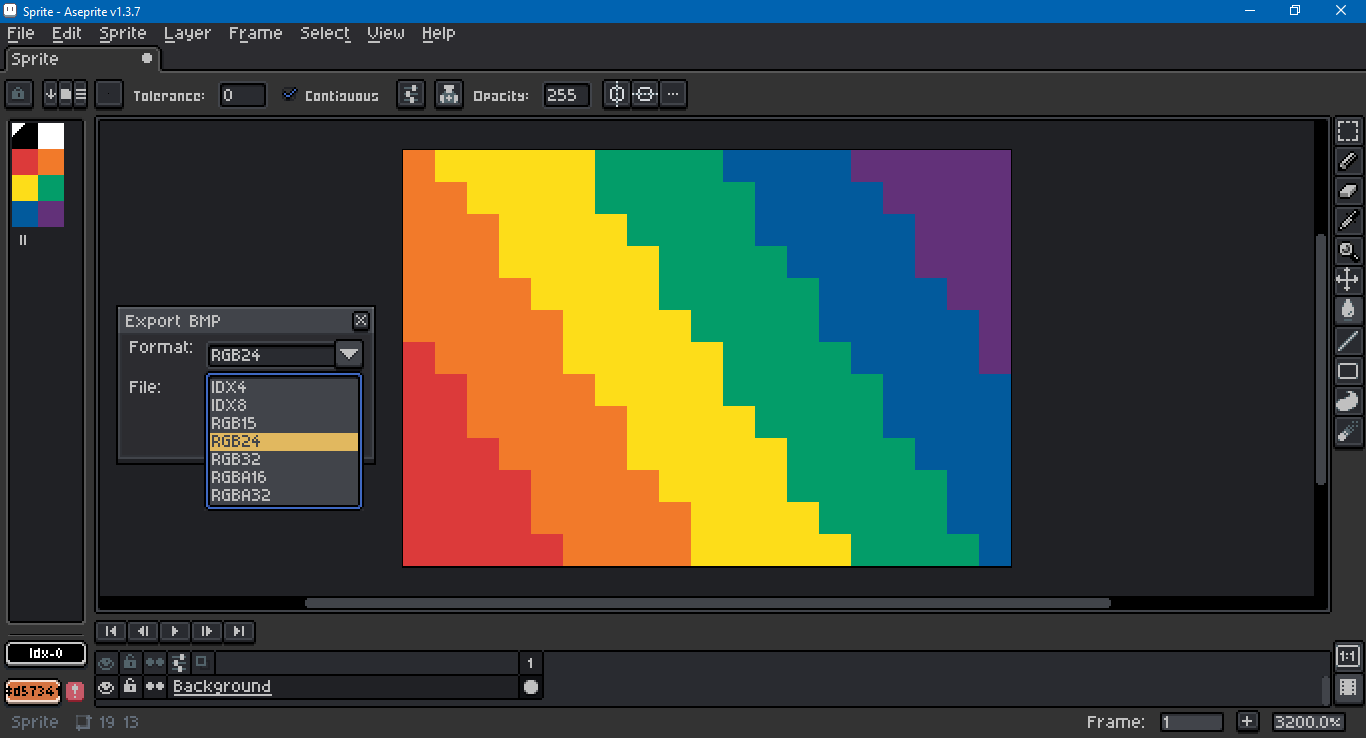
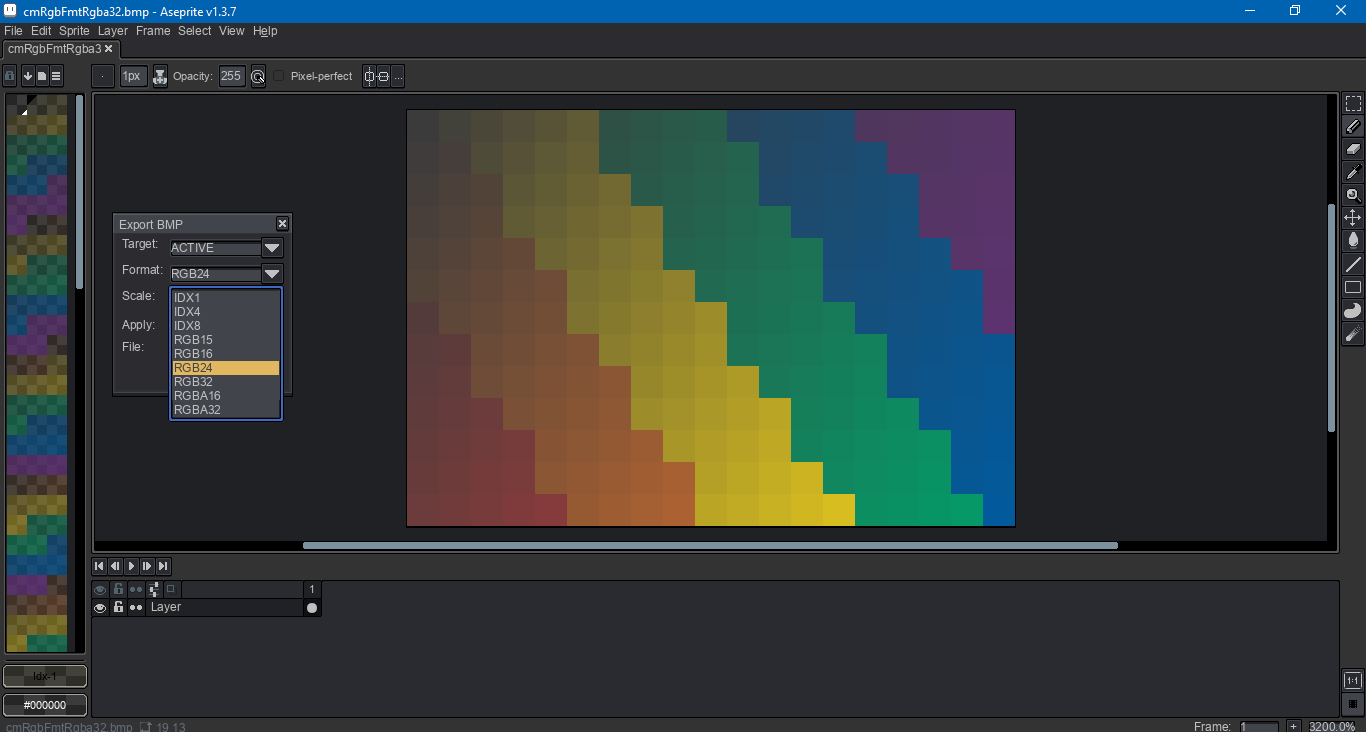
Update screen cap and read me with idx 1 support.

diff --git a/README.md b/README.md
@@ -4,7 +4,7 @@
 
 This an [Aseprite](https://www.aseprite.org/) script to export `bmp`s in a variety of formats. Aseprite supports `bmp` export natively, but does not give the user direct control over the data format. This leads to problems where other graphics editors have issues opening Aseprite generated files.
 
-This script uses the [BITMAPINFOHEADER](https://learn.microsoft.com/en-us/windows/win32/api/wingdi/ns-wingdi-bitmapinfoheader) for indexed 4 and 8 formats and RGB 15, 24 and 32 formats. It uses the [BITMAPV4HEADER](https://learn.microsoft.com/en-us/windows/win32/api/wingdi/ns-wingdi-bitmapv4header) for RGB 16 (565), RGBA 16 (5551) and RGBA 32 formats. Exported files do not use any compression. Color profile information is not written to the file, even when the `BITMAPV4HEADER` is used, as the data cannot be accessed by Aseprite's Lua scripting API. For that reason, the sRGB color space should be assumed.
+This script uses the [BITMAPINFOHEADER](https://learn.microsoft.com/en-us/windows/win32/api/wingdi/ns-wingdi-bitmapinfoheader) for indexed 1, 4 and 8 formats and RGB 15, 24 and 32 formats. It uses the [BITMAPV4HEADER](https://learn.microsoft.com/en-us/windows/win32/api/wingdi/ns-wingdi-bitmapv4header) for RGB 16 (565), RGBA 16 (5551) and RGBA 32 formats. Exported files do not use any compression. Color profile information is not written to the file, even when the `BITMAPV4HEADER` is used, as the data cannot be accessed by Aseprite's Lua scripting API. For that reason, the sRGB color space should be assumed.
 
 Sample export files can be found in the samples folder if you'd like to test compatibility before using the script.
 
@@ -30,18 +30,18 @@ Once open, holding down the `Alt` or `Option` key and pressing the underlined le
 
 Below are known compatibility issues with exported `bmp`s and other software.
 
-|Software|IDX4|IDX8|RGB15|RGB16|RGB24|RGB32|RGBA16|RGBA32|
-|-------:|:--:|:--:|:---:|:---:|:---:|:---:|:----:|:----:|
-|Aseprite|✔|✔|❕|✔|✔|❕|✔|✔|
-|GIMP|✔|✔|✔|✔|✔|✔|✔|✔|
-|Godot|❌|✔|❕|✔|✔|❕|✔|✔|
-|Irfanview|✔|✔|✔|✔|✔|✔|❕|❕|
-|Krita|✔|✔|✔|✔|✔|✔|❕|✔|
-|MS Paint|✔|✔|✔|✔|✔|✔|❕|✔|
-|Paint.Net|✔|✔|✔|✔|✔|✔|❕|✔|
-|Unity|✔|✔|✔|✔|✔|❕|❕|✔|
-|Visual Studio|✔|✔|✔|✔|✔|✔|❕|✔|
-|XnView MP|✔|✔|✔|✔|✔|❕|❕|✔|
+|Software|IDX1|IDX4|IDX8|RGB15|RGB16|RGB24|RGB32|RGBA16|RGBA32|
+|-------:|:--:|:--:|:--:|:---:|:---:|:---:|:---:|:----:|:----:|
+|Aseprite|✔|✔|✔|❕|✔|✔|❕|✔|✔|
+|GIMP|✔|✔|✔|✔|✔|✔|✔|✔|✔|
+|Godot|❌|❌|✔|❕|✔|✔|❕|✔|✔|
+|Irfanview|✔|✔|✔|✔|✔|✔|✔|❕|❕|
+|Krita|✔|✔|✔|✔|✔|✔|✔|❕|✔|
+|MS Paint|✔|✔|✔|✔|✔|✔|✔|❕|✔|
+|Paint.Net|✔|✔|✔|✔|✔|✔|✔|❕|✔|
+|Unity|✔|✔|✔|✔|✔|✔|❕|❕|✔|
+|Visual Studio|✔|✔|✔|✔|✔|✔|✔|❕|✔|
+|XnView MP|✔|✔|✔|✔|✔|✔|❕|❕|✔|
 
 The exclamation points indicate that a file will load, but there will be a transparency issue. In most cases, the alpha channel is ignored. In some cases, the alpha channel is recognized in the file data, even if it's not specified by the header. The latter case is because this script writes the alpha to the file data for 15 and 32 bit RGB.
 
